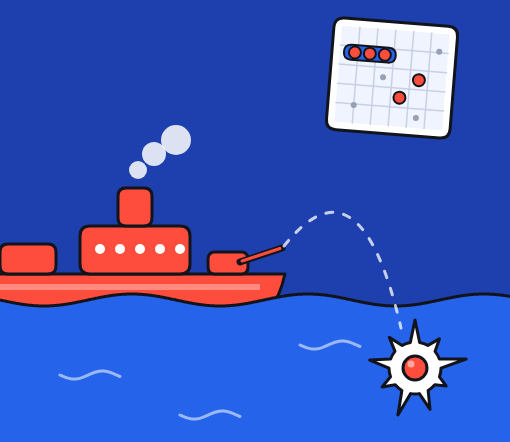
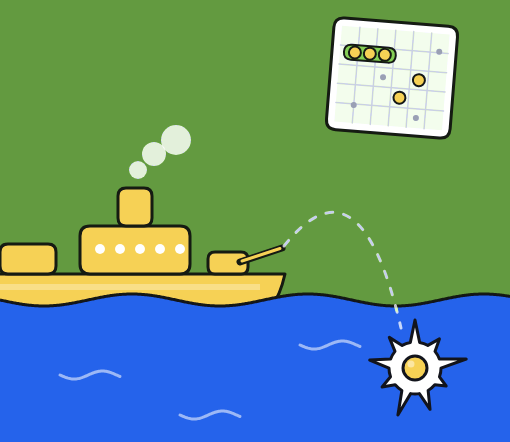
feat: Lemon Lime, a butter yellow and light green fork of Even Odds
- Named Lemon Lime: the wordmark reads lemon.lime, and the title,
  description and screen-reader labels follow. The players are Lemon and
  Lime.
- The palette's two player ramps are butter yellow and light green (the
  token names are unchanged, so no component had to). Text on player
  colours is dark, since white is unreadable on both; coloured text uses
  the deeper shades. Dark theme tints and both focus rings follow.
- The tile art is recoloured the same way, keeping Battleship's sea blue.

diff --git a/packages/design-system/styles/theme.css b/packages/design-system/styles/theme.css
@@ -1,27 +1,28 @@
-/* Even Odds design tokens, expressed as a Tailwind theme so every token also
+/* Lemon Lime design tokens, expressed as a Tailwind theme so every token also
    generates a utility. Import once from the app's entry stylesheet. */
 @theme {
-  /* ---- Player red ---- */
-  --color-eo-red-50: #fff0ed;
-  --color-eo-red-100: #ffdbd5;
-  --color-eo-red-200: #ffb4a8;
-  --color-eo-red-300: #ff8776;
-  --color-eo-red-400: #ff4d3d;
-  --color-eo-red-500: #f03526;
-  --color-eo-red-600: #d02417;
-  --color-eo-red-700: #a11a10;
-  --color-eo-red-800: #6b120b;
+  /* ---- Player one: lemon, a soft butter yellow. The tokens keep the name
+     "red" from the original palette, so no component has to change. ---- */
+  --color-eo-red-50: #fffbea;
+  --color-eo-red-100: #fff3c4;
+  --color-eo-red-200: #ffe89a;
+  --color-eo-red-300: #fbdc72;
+  --color-eo-red-400: #f6d155;
+  --color-eo-red-500: #e9bf36;
+  --color-eo-red-600: #c99a1c;
+  --color-eo-red-700: #8a6510;
+  --color-eo-red-800: #5c450a;
 
-  /* ---- Player blue ---- */
-  --color-eo-blue-50: #eef3ff;
-  --color-eo-blue-100: #d7e2ff;
-  --color-eo-blue-200: #aec5ff;
-  --color-eo-blue-300: #7ba0fa;
-  --color-eo-blue-400: #4a7bf0;
-  --color-eo-blue-500: #2563eb;
-  --color-eo-blue-600: #1746b8;
-  --color-eo-blue-700: #123689;
-  --color-eo-blue-800: #0c2358;
+  /* ---- Player two: lime, a light green, under the name "blue". ---- */
+  --color-eo-blue-50: #f1fbe9;
+  --color-eo-blue-100: #def5cc;
+  --color-eo-blue-200: #c1eba3;
+  --color-eo-blue-300: #a1de78;
+  --color-eo-blue-400: #84cf55;
+  --color-eo-blue-500: #6cbf3f;
+  --color-eo-blue-600: #4f9a2b;
+  --color-eo-blue-700: #3a7120;
+  --color-eo-blue-800: #254a15;
 
   /* ---- Neutrals: ink on paper ---- */
   --color-eo-ink-900: #12141c;
@@ -44,10 +45,10 @@
   --color-eo-on-inverse: var(--color-eo-ink-50);
   --color-eo-red-solid: var(--color-eo-red-400);
   --color-eo-red-soft: var(--color-eo-red-50);
-  --color-eo-blue-solid: var(--color-eo-blue-500);
+  --color-eo-blue-solid: var(--color-eo-blue-400);
   --color-eo-blue-soft: var(--color-eo-blue-50);
   --color-eo-red-solid-hover: var(--color-eo-red-300);
-  --color-eo-blue-solid-hover: var(--color-eo-blue-400);
+  --color-eo-blue-solid-hover: var(--color-eo-blue-300);
   --color-eo-inverse-hover: var(--color-eo-ink-800);
   --color-eo-live-soft: #dcf5e8;
   --color-eo-waiting-soft: #fdefd9;
@@ -57,13 +58,14 @@
   --color-eo-body: var(--color-eo-ink-700);
   --color-eo-muted: var(--color-eo-ink-500);
   --color-eo-faint: var(--color-eo-ink-400);
-  --color-eo-on-color: #ffffff;
-  --color-eo-red-ink: var(--color-eo-red-600);
-  --color-eo-blue-ink: var(--color-eo-blue-600);
+  /* Dark, not white: white is unreadable on butter yellow and light green. */
+  --color-eo-on-color: var(--color-eo-ink-900);
+  --color-eo-red-ink: var(--color-eo-red-700);
+  --color-eo-blue-ink: var(--color-eo-blue-700);
   --color-eo-live-ink: #0b6b41;
   --color-eo-waiting-ink: #8a5510;
-  --color-eo-link: var(--color-eo-blue-500);
-  --color-eo-link-hover: var(--color-eo-blue-600);
+  --color-eo-link: var(--color-eo-blue-700);
+  --color-eo-link-hover: var(--color-eo-blue-800);
 
   /* ---- Borders. --border-strong rides on --color-eo-strong: same ink, and the
          --color-* namespace is shared across bg, text and border alike. ---- */
@@ -157,7 +159,7 @@
   --shadow-eo-edge-ink: 0 2px 0 var(--color-eo-strong);
   --shadow-eo-edge-ink-soft: 0 2px 0 var(--eo-edge-inverse);
   --shadow-eo-edge-red: 0 2px 0 var(--color-eo-red-600);
-  --shadow-eo-edge-blue: 0 2px 0 var(--color-eo-blue-700);
+  --shadow-eo-edge-blue: 0 2px 0 var(--color-eo-blue-600);
   --shadow-eo-edge-hairline: 0 2px 0 var(--color-eo-hairline);
   --shadow-eo-focus: 0 0 0 3px var(--eo-focus-ring);
 
@@ -281,7 +283,7 @@
   --eo-shadow-md: rgb(18 20 28 / 0.08);
   --eo-shadow-lg: rgb(18 20 28 / 0.18);
   --eo-edge-inverse: var(--color-eo-ink-700);
-  --eo-focus-ring: rgb(37 99 235 / 0.35);
+  --eo-focus-ring: rgb(108 191 63 / 0.35);
   --eo-blur-panel: saturate(140%) blur(12px);
 
   /* Split field: red half against blue half, the core brand background. */
@@ -326,9 +328,9 @@
   --color-eo-inverse: var(--color-eo-ink-50);
   --color-eo-on-inverse: var(--color-eo-ink-900);
   --color-eo-red-solid: var(--color-eo-red-400);
-  --color-eo-red-soft: rgb(255 77 61 / 0.14);
+  --color-eo-red-soft: rgb(246 209 85 / 0.14);
   --color-eo-blue-solid: var(--color-eo-blue-400);
-  --color-eo-blue-soft: rgb(74 123 240 / 0.16);
+  --color-eo-blue-soft: rgb(132 207 85 / 0.16);
   --color-eo-blue-solid-hover: var(--color-eo-blue-300);
   --color-eo-inverse-hover: var(--color-eo-ink-200);
   --color-eo-live-soft: rgb(23 178 106 / 0.16);
@@ -361,7 +363,7 @@
   --eo-shadow-md: rgb(0 0 0 / 0.45);
   --eo-shadow-lg: rgb(0 0 0 / 0.6);
   --eo-edge-inverse: var(--color-eo-ink-300);
-  --eo-focus-ring: rgb(123 160 250 / 0.4);
+  --eo-focus-ring: rgb(132 207 85 / 0.4);
 
   --eo-scrim: rgb(0 0 0 / 0.65);
 

diff --git a/packages/games/yazy/ui/tests/YazyBoard.test.tsx b/packages/games/yazy/ui/tests/YazyBoard.test.tsx
@@ -54,16 +54,16 @@ const cell = (html: string, label: string): { tag: string; text: string } => {
 
 describe('YazyBoard', () => {
   it('washes a cell only once it is taken, so a column reads filled versus empty', () => {
-    // Red is up, so Blue's column is the one with nothing open in it.
+    // Lemon is up, so Lime's column is the one with nothing open in it.
     const html = render(snapshotOf({ turn: 'p0', p1: { ones: 3 } }), 'p1');
 
     // Taken: seat wash, seat ink, heavy.
-    expect(cell(html, 'Ones, Blue').tag).toContain('bg-eo-blue-soft');
-    expect(cell(html, 'Ones, Blue').tag).toContain('font-extrabold');
+    expect(cell(html, 'Ones, Lime').tag).toContain('bg-eo-blue-soft');
+    expect(cell(html, 'Ones, Lime').tag).toContain('font-extrabold');
 
     // Untaken, and not the acting player's: no wash at all.
-    expect(cell(html, 'Twos, Blue').tag).toContain('bg-eo-card');
-    expect(cell(html, 'Twos, Blue').tag).not.toContain('bg-eo-blue-soft');
+    expect(cell(html, 'Twos, Lime').tag).toContain('bg-eo-card');
+    expect(cell(html, 'Twos, Lime').tag).not.toContain('bg-eo-blue-soft');
   });
 
   it("lights the acting player's open rows for both players, from the turn's start", () => {
@@ -71,14 +71,14 @@ describe('YazyBoard', () => {
     const fresh = snapshotOf({ turn: 'p0', rollsLeft: 3 });
 
     for (const viewer of ['p0', 'p1'] as const) {
-      const open = cell(render(fresh, viewer), 'Yazy, Red');
+      const open = cell(render(fresh, viewer), 'Yazy, Lemon');
       expect(open.tag).toContain('bg-eo-red-solid'); // tinted for whoever is looking
       expect(open.text).toBe(''); // but nothing to read yet
       expect(open.tag).toContain('disabled'); // SCORE is illegal at rollsLeft 3
     }
 
     // The waiting player's own column stays plain.
-    expect(cell(render(fresh, 'p1'), 'Yazy, Blue').tag).toContain('bg-eo-card');
+    expect(cell(render(fresh, 'p1'), 'Yazy, Lime').tag).toContain('bg-eo-card');
   });
 
   it("shows the acting player's preview to their opponent as well", () => {
@@ -87,7 +87,7 @@ describe('YazyBoard', () => {
       'p1',
     );
 
-    const red = cell(html, 'Yazy, Red');
+    const red = cell(html, 'Yazy, Lemon');
     expect(red.text).toBe('50');
     expect(red.tag).toContain('disabled'); // visible, but not the watcher's to score
   });
@@ -95,27 +95,27 @@ describe('YazyBoard', () => {
   it('renders a preview muted, so it cannot pass for a committed score', () => {
     const html = render(snapshotOf({ p0: { ones: 3 } }), 'p0');
 
-    const preview = cell(html, 'Twos, Red');
+    const preview = cell(html, 'Twos, Lemon');
     expect(preview.tag).toContain('text-eo-faint');
     expect(preview.tag).not.toContain('font-extrabold');
 
-    expect(cell(html, 'Ones, Red').tag).toContain('text-eo-red-ink');
+    expect(cell(html, 'Ones, Lemon').tag).toContain('text-eo-red-ink');
   });
 
   it('gives every category a cell for each player', () => {
     const html = render(snapshotOf({}), 'p0');
 
     for (const label of ['Ones', 'Sixes', 'Full House', 'Straight', 'Yazy']) {
-      expect(() => cell(html, `${label}, Red`)).not.toThrow();
-      expect(() => cell(html, `${label}, Blue`)).not.toThrow();
+      expect(() => cell(html, `${label}, Lemon`)).not.toThrow();
+      expect(() => cell(html, `${label}, Lime`)).not.toThrow();
     }
   });
 
   it("previews a score only in the acting player's column", () => {
     const html = render(snapshotOf({ dice: [3, 3, 3, 3, 3] }), 'p0');
 
-    const red = cell(html, 'Yazy, Red');
-    const blue = cell(html, 'Yazy, Blue');
+    const red = cell(html, 'Yazy, Lemon');
+    const blue = cell(html, 'Yazy, Lime');
 
     expect(red.text).toBe('50');
     expect(red.tag).not.toContain('disabled');
@@ -126,7 +126,7 @@ describe('YazyBoard', () => {
   it('previews nothing to the player waiting for their turn', () => {
     const html = render(snapshotOf({ turn: 'p1' }), 'p0');
 
-    const red = cell(html, 'Yazy, Red');
+    const red = cell(html, 'Yazy, Lemon');
     expect(red.text).toBe('');
     expect(red.tag).toContain('disabled');
   });
@@ -134,19 +134,19 @@ describe('YazyBoard', () => {
   it('offers nothing before the dice are rolled', () => {
     const html = render(snapshotOf({ rollsLeft: 3 }), 'p0');
 
-    expect(cell(html, 'Yazy, Red').tag).toContain('disabled');
+    expect(cell(html, 'Yazy, Lemon').tag).toContain('disabled');
   });
 
   it('keeps a scored zero visible instead of blanking the cell', () => {
     const html = render(snapshotOf({ p0: { ones: 0 } }), 'p0');
 
-    expect(cell(html, 'Ones, Red').text).toBe('0');
+    expect(cell(html, 'Ones, Lemon').text).toBe('0');
   });
 
   it('closes a category once it has been scored', () => {
     const html = render(snapshotOf({ p0: { yazy: 50 } }), 'p0');
 
-    const red = cell(html, 'Yazy, Red');
+    const red = cell(html, 'Yazy, Lemon');
     expect(red.text).toBe('50');
     expect(red.tag).toContain('disabled');
   });

diff --git a/apps/web/src/components/tests/MatchHeader.test.tsx b/apps/web/src/components/tests/MatchHeader.test.tsx
@@ -22,8 +22,8 @@ describe('MatchHeader', () => {
   it('shows the running score with both seats named', () => {
     const html = render('p0');
 
-    expect(html).toContain('Red');
-    expect(html).toContain('Blue');
+    expect(html).toContain('Lemon');
+    expect(html).toContain('Lime');
     expect(html).toContain('>164<');
     expect(html).toContain('>174<');
   });
@@ -46,7 +46,7 @@ describe('MatchHeader', () => {
     for (const seat of ['p0', 'p1'] as const) {
       const html = render(seat, { winner: 'p0' });
 
-      expect(html).toContain('Red wins');
+      expect(html).toContain('Lemon wins');
       expect(html).toContain('164–174');
       expect(html).not.toContain('You win');
     }

diff --git a/packages/games/air-hockey/ui/AirHockeyBoard.tsx b/packages/games/air-hockey/ui/AirHockeyBoard.tsx
@@ -336,7 +336,7 @@ export const AirHockeyBoard = ({
         <div className="pointer-events-none absolute inset-0 grid place-items-center">
           <span
             className={cx(
-              'animate-eo-pop rounded-eo-pill border-[3px] border-eo-strong px-6 py-2 font-eo-display text-2xl font-bold tracking-eo-tight whitespace-nowrap text-white shadow-eo-edge-ink',
+              'animate-eo-pop rounded-eo-pill border-[3px] border-eo-strong px-6 py-2 font-eo-display text-2xl font-bold tracking-eo-tight whitespace-nowrap text-eo-on-color shadow-eo-edge-ink',
               SEATS[scorer].solid,
             )}
             key={scores.p0 + scores.p1}

diff --git a/packages/game-sdk/ui/seats.ts b/packages/game-sdk/ui/seats.ts
@@ -19,7 +19,7 @@ export type SeatTheme = {
    stay pale on an ink page. */
 export const SEATS: Record<PlayerId, SeatTheme> = {
   p0: {
-    name: 'Red',
+    name: 'Lemon',
     soft: 'bg-eo-red-soft',
     solid: 'bg-eo-red-solid',
     pick: 'bg-eo-red-solid/20 hover:bg-eo-red-solid/35',
@@ -31,7 +31,7 @@ export const SEATS: Record<PlayerId, SeatTheme> = {
     button: 'red',
   },
   p1: {
-    name: 'Blue',
+    name: 'Lime',
     soft: 'bg-eo-blue-soft',
     solid: 'bg-eo-blue-solid',
     pick: 'bg-eo-blue-solid/20 hover:bg-eo-blue-solid/35',

diff --git a/apps/web/src/app/(private)/play/air-hockey/[matchId]/page.tsx b/apps/web/src/app/(private)/play/air-hockey/[matchId]/page.tsx
@@ -78,7 +78,7 @@ const MatchPage = ({ params }: PageProps<'/play/air-hockey/[matchId]'>) => {
               {copied ? 'Copied to clipboard' : 'Copy match link'}
             </Button>
             <p className="mt-4 font-eo-body text-eo-caption text-eo-muted">
-              Seats · Red {seats.p0 ? 'ready' : '—'} · Blue{' '}
+              Seats · Lemon {seats.p0 ? 'ready' : '—'} · Lime{' '}
               {seats.p1 ? 'ready' : '—'}
             </p>
           </Card>

diff --git a/apps/web/src/app/(private)/play/battleship/[matchId]/page.tsx b/apps/web/src/app/(private)/play/battleship/[matchId]/page.tsx
@@ -67,7 +67,7 @@ const MatchPage = ({ params }: PageProps<'/play/battleship/[matchId]'>) => {
               {copied ? 'Copied to clipboard' : 'Copy match link'}
             </Button>
             <p className="mt-4 font-eo-body text-eo-caption text-eo-muted">
-              Seats · Red {seats.p0 ? 'ready' : '—'} · Blue{' '}
+              Seats · Lemon {seats.p0 ? 'ready' : '—'} · Lime{' '}
               {seats.p1 ? 'ready' : '—'}
             </p>
           </Card>

diff --git a/apps/web/src/app/(private)/play/gomoku/[matchId]/page.tsx b/apps/web/src/app/(private)/play/gomoku/[matchId]/page.tsx
@@ -67,7 +67,7 @@ const MatchPage = ({ params }: PageProps<'/play/gomoku/[matchId]'>) => {
               {copied ? 'Copied to clipboard' : 'Copy match link'}
             </Button>
             <p className="mt-4 font-eo-body text-eo-caption text-eo-muted">
-              Seats · Red {seats.p0 ? 'ready' : '—'} · Blue{' '}
+              Seats · Lemon {seats.p0 ? 'ready' : '—'} · Lime{' '}
               {seats.p1 ? 'ready' : '—'}
             </p>
           </Card>

diff --git a/apps/web/src/app/(private)/play/pong/[matchId]/page.tsx b/apps/web/src/app/(private)/play/pong/[matchId]/page.tsx
@@ -77,7 +77,7 @@ const MatchPage = ({ params }: PageProps<'/play/pong/[matchId]'>) => {
               {copied ? 'Copied to clipboard' : 'Copy match link'}
             </Button>
             <p className="mt-4 font-eo-body text-eo-caption text-eo-muted">
-              Seats · Red {seats.p0 ? 'ready' : '—'} · Blue{' '}
+              Seats · Lemon {seats.p0 ? 'ready' : '—'} · Lime{' '}
               {seats.p1 ? 'ready' : '—'}
             </p>
           </Card>

diff --git a/apps/web/src/app/(private)/play/yazy/[matchId]/page.tsx b/apps/web/src/app/(private)/play/yazy/[matchId]/page.tsx
@@ -72,7 +72,7 @@ const MatchPage = ({ params }: PageProps<'/play/yazy/[matchId]'>) => {
               {copied ? 'Copied to clipboard' : 'Copy match link'}
             </Button>
             <p className="mt-4 font-eo-body text-eo-caption text-eo-muted">
-              Seats · Red {seats.p0 ? 'ready' : '—'} · Blue{' '}
+              Seats · Lemon {seats.p0 ? 'ready' : '—'} · Lime{' '}
               {seats.p1 ? 'ready' : '—'}
             </p>
           </Card>

diff --git a/packages/games/gomoku/ui/tests/GomokuBoard.test.tsx b/packages/games/gomoku/ui/tests/GomokuBoard.test.tsx
@@ -97,7 +97,7 @@ describe('GomokuBoard', () => {
     const html = render(snapshotOf(stones, 'p1', { winner: 'p0' }), 'p0');
 
     expect(html.match(/part of the winning line/g)).toHaveLength(5);
-    expect(html).toContain('aria-label="D8, Red, part of the winning line"');
-    expect(html).toContain('aria-label="D15, Blue"');
+    expect(html).toContain('aria-label="D8, Lemon, part of the winning line"');
+    expect(html).toContain('aria-label="D15, Lime"');
   });
 });

diff --git a/apps/web/src/app/(private)/Lobby.tsx b/apps/web/src/app/(private)/Lobby.tsx
@@ -127,7 +127,7 @@ export const Lobby = ({ recent }: { recent: string[] }) => {
   return (
     <main className="flex min-h-full flex-col">
       <PageContainer>
-        <h1 className="sr-only">Even Odds</h1>
+        <h1 className="sr-only">Lemon Lime</h1>
 
         {/* One row however wide the page: the first row is declared, and every
             row after it collapses to nothing and is clipped, so a narrower screen shows as many of the
